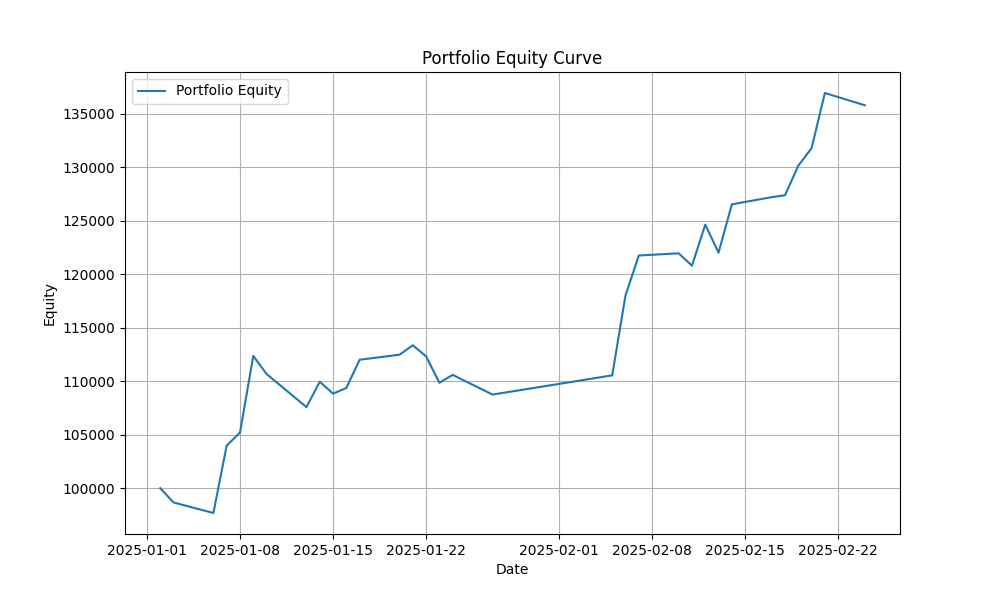
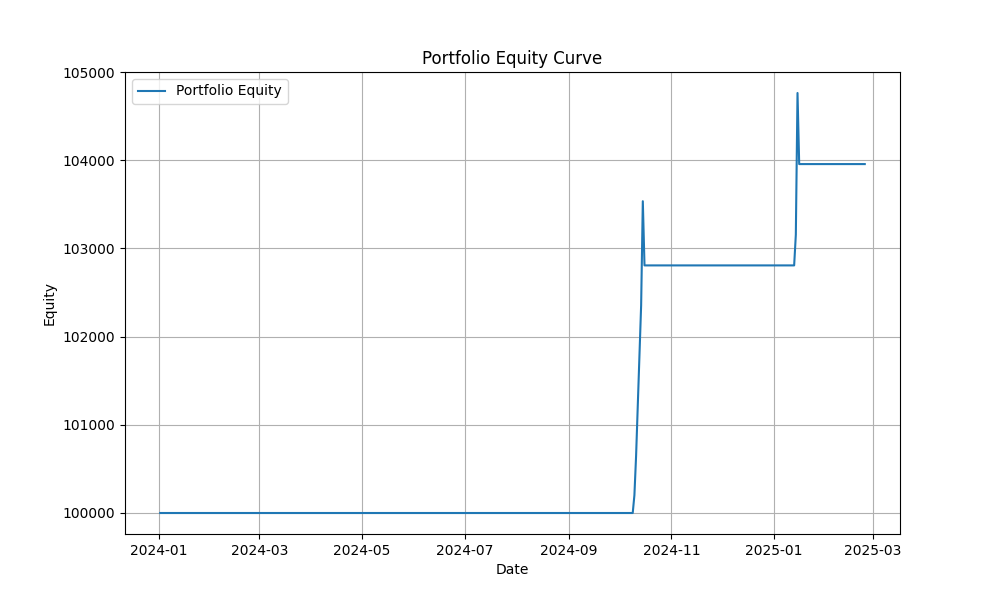
feat: add broker

diff --git a/broker.py b/broker.py
@@ -1,70 +1,139 @@
 # 导入所需的库和模块
 import pybroker as pb
-from pybroker import Strategy, ExecContext, highest
+from pybroker import Strategy, ExecContext, highest, lowest
 from pybroker.ext.data import AKShare
 import akshare as ak
 import matplotlib.pyplot as plt
+import pandas as pd
+import numpy as np
 
 # 瑞芯微 603893
 # 比亚迪 002594
 # 紫光国微 002049
 # 保利发展 600048
 
-symbols = ["603893","002594","002049","600048"]
-percent = 1
-stop_loss_pct = 10
-stop_profit_pct = 10
-initial_cash=100000
-start_date = "20250101"
+# 设置回测时间为2024年1月到2025年2月
+start_date = "20240101"
 end_date = "20250224"
 
+# 由于我们将使用动态选股策略，可以考虑使用更大的股票池
+symbols = ["603893", "002594", "002049", "600048"]
 
-d = ak.stock_zh_a_spot_em()
-for symbol in symbols:
-    print(d[(d["代码"]==symbol)])
+percent = 0.2  # 单只股票使用资金比例
+initial_cash = 100000
 
 # 初始化 AKShare 数据源
 akshare = AKShare()
 
-
-# 定义交易策略：如果当前没有持有该股票，则买入股票，并设置止盈点位
+# 定义交易策略：根据pick.py选股逻辑买入，次日卖出
 def buy_with_stop_loss(ctx: ExecContext):
-    # 日期
-    print(ctx._curr_date, ctx.symbol)
-
-    stock_zh_a_hist_pre_min_em_df = akshare.query(ctx.symbol,start_date=ctx._curr_date,end_date=ctx._curr_date)
-    print(stock_zh_a_hist_pre_min_em_df)
-
+    symbol = ctx.symbol
     pos = ctx.long_pos()
-    if not pos:
+    
+    # 如果有持仓，检查是否需要卖出
+    if pos:
+        # 如果是昨天买入的，今天卖出
+        if pos.bars == 1:
+            ctx.sell_shares = pos.shares
+            # 使用日期对象获取当前日期，而不是直接访问curr_date
+            print(f"卖出股票 {symbol}，持有天数: {pos.bars}")
+        return
+    
+    # 如果没有持仓，直接在执行上下文中实现选股逻辑
+    try:
+        # 获取历史数据
+        # 尝试使用PyBroker正确的属性名
+        if not hasattr(ctx, 'close'):
+            # 如果没有直接的价格属性，尝试通过数据框属性访问
+            if hasattr(ctx, 'data') and ctx.data is not None:
+                df = ctx.data
+                close_values = df['close'].values
+                open_values = df['open'].values
+                high_values = df['high'].values
+                low_values = df['low'].values
+                volume_values = df['volume'].values
+            else:
+                return  # 无法获取数据，退出
+        else:
+            # 直接从上下文对象获取价格数据
+            close_values = ctx.close
+            open_values = ctx.open
+            high_values = ctx.high
+            low_values = ctx.low
+            volume_values = ctx.volume
+        
+        # 确保有足够的历史数据
+        if len(close_values) < 5:
+            return
+        
+        # 使用最近5天的数据
+        closes = close_values[-5:]     # 最后5个收盘价
+        opens = open_values[-5:]       # 最后5个开盘价
+        highs = high_values[-5:]       # 最后5个最高价
+        lows = low_values[-5:]         # 最后5个最低价
+        volumes = volume_values[-5:]   # 最后5个成交量
+        
+        # 计算涨跌幅 (近4天)
+        pct_changes = np.zeros(4)
+        for i in range(4):
+            pct_changes[i] = (closes[i+1] - closes[i]) / closes[i] * 100
+        
+        # 条件1: 第1天是涨停(暂定为涨幅>=9.5%)
+        if pct_changes[0] < 9.5:
+            return
+        
+        # 条件2: 第2天是上涨
+        if pct_changes[1] <= 0:
+            return
+        
+        # 条件3: 第2天成交量大于第1天
+        if volumes[1] <= volumes[0]:
+            return
+        
+        # 条件4: 第3天和第4天是下跌
+        if pct_changes[2] >= 0 or pct_changes[3] >= 0:
+            return
+        
+        # 条件5: 计算特定价格点：涨停日最低价+(最高价-最低价)*0.3
+        price_point = lows[0] + (highs[0] - lows[0]) * 0.3
+        
+        # 条件6: 次日最低价高于特定价格点
+        if lows[1] <= price_point:
+            return
+        
+        # 符合所有条件，买入
         ctx.buy_shares = ctx.calc_target_shares(percent)
-        ctx.hold_bars = 100
-    else:
-        high_10d = ctx.indicator('high_10d')
-        # print(high_10d)
-        ctx.sell_shares = pos.shares
-        ctx.stop_profit_pct = stop_profit_pct
-
-
+        print(f"买入股票 {symbol}")
+        
+    except Exception as e:
+        print(f"分析股票 {symbol} 时出错: {e}")
 
 # 创建策略配置，初始资金为 100000
 my_config = pb.StrategyConfig(initial_cash=initial_cash)
+
 # 使用配置、数据源、起始日期、结束日期，以及刚才定义的交易策略创建策略对象
 strategy = Strategy(akshare, start_date=start_date, end_date=end_date, config=my_config)
+
 # 添加执行策略，设置股票代码和要执行的函数
-strategy.add_execution(fn=buy_with_stop_loss, symbols=symbols, indicators=[highest('high_10d', 'close', period=10)])
-# 执行回测，并打印出回测结果的度量值（四舍五入到小数点后四位）
+strategy.add_execution(
+    fn=buy_with_stop_loss, 
+    symbols=symbols
+)
+
+# 执行回测，并打印出回测结果的度量值
 result = strategy.backtest()
 
+# 打印回测结果
+print("\n回测性能指标:")
+print(result.metrics_df.round(4))
+print("\n交易概览:")
+print(f"总交易次数: {len(result.trades)}")
+print(f"胜率: {result.metrics.win_rate:.2f}%")
+print(f"最大回撤: {result.metrics.max_drawdown_pct*100:.2f}%")
+print(f"总收益率: {result.metrics.total_return_pct:.2f}%")
+print(f"夏普比率: {result.metrics.sharpe:.4f}")
 
-# print(result.portfolio.index)
-# print(result.metrics_df.round(4))
-# print(result.metrics)
-# print(result.orders)
-# print(result.positions)
-# print(result.trades)
-
-# 在回测结果后添加以下代码
+# 绘制结果图表
 plt.figure(figsize=(10, 6))
 plt.plot(result.portfolio.index, result.portfolio['equity'], label='Portfolio Equity')
 plt.title('Portfolio Equity Curve')
@@ -73,3 +142,4 @@ plt.ylabel('Equity')
 plt.legend()
 plt.grid(True)
 plt.savefig('equity_curve.png')  # 保存为图片文件
+plt.show()